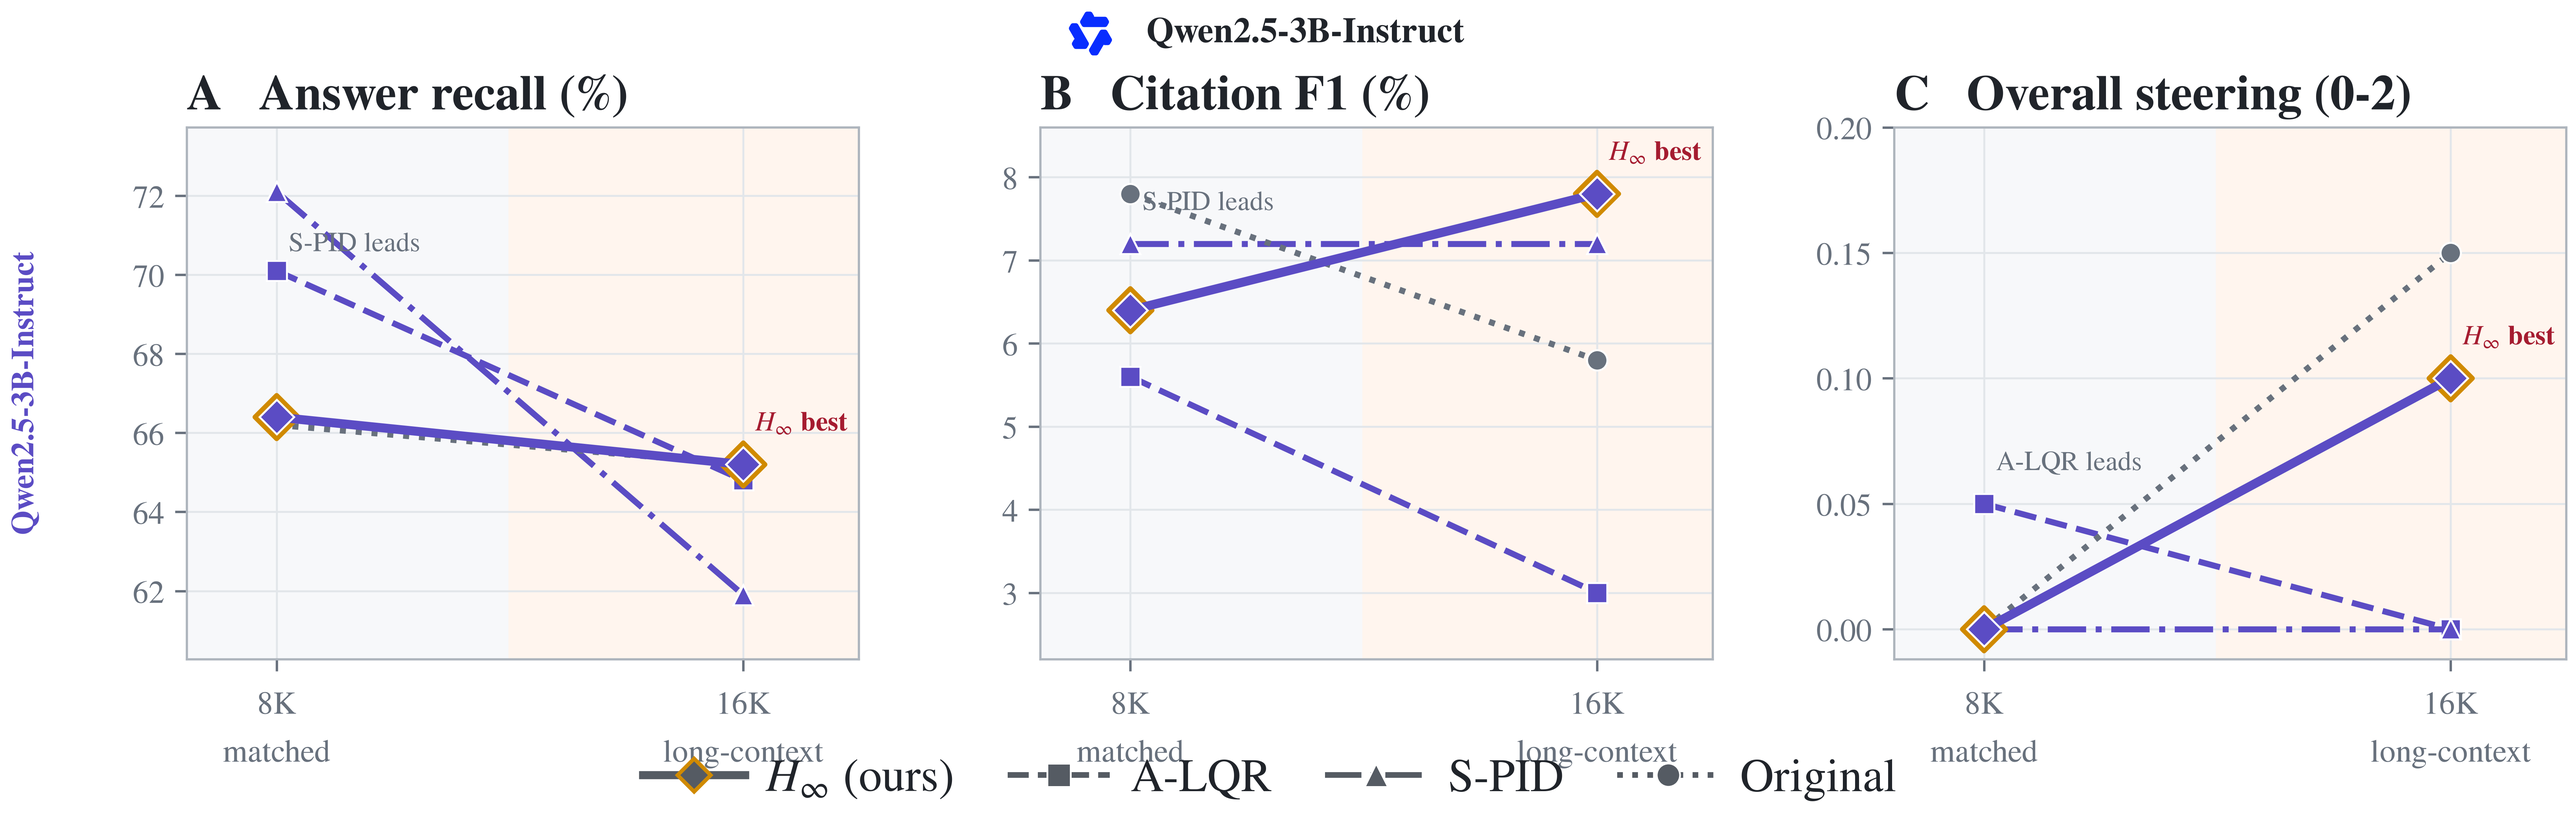
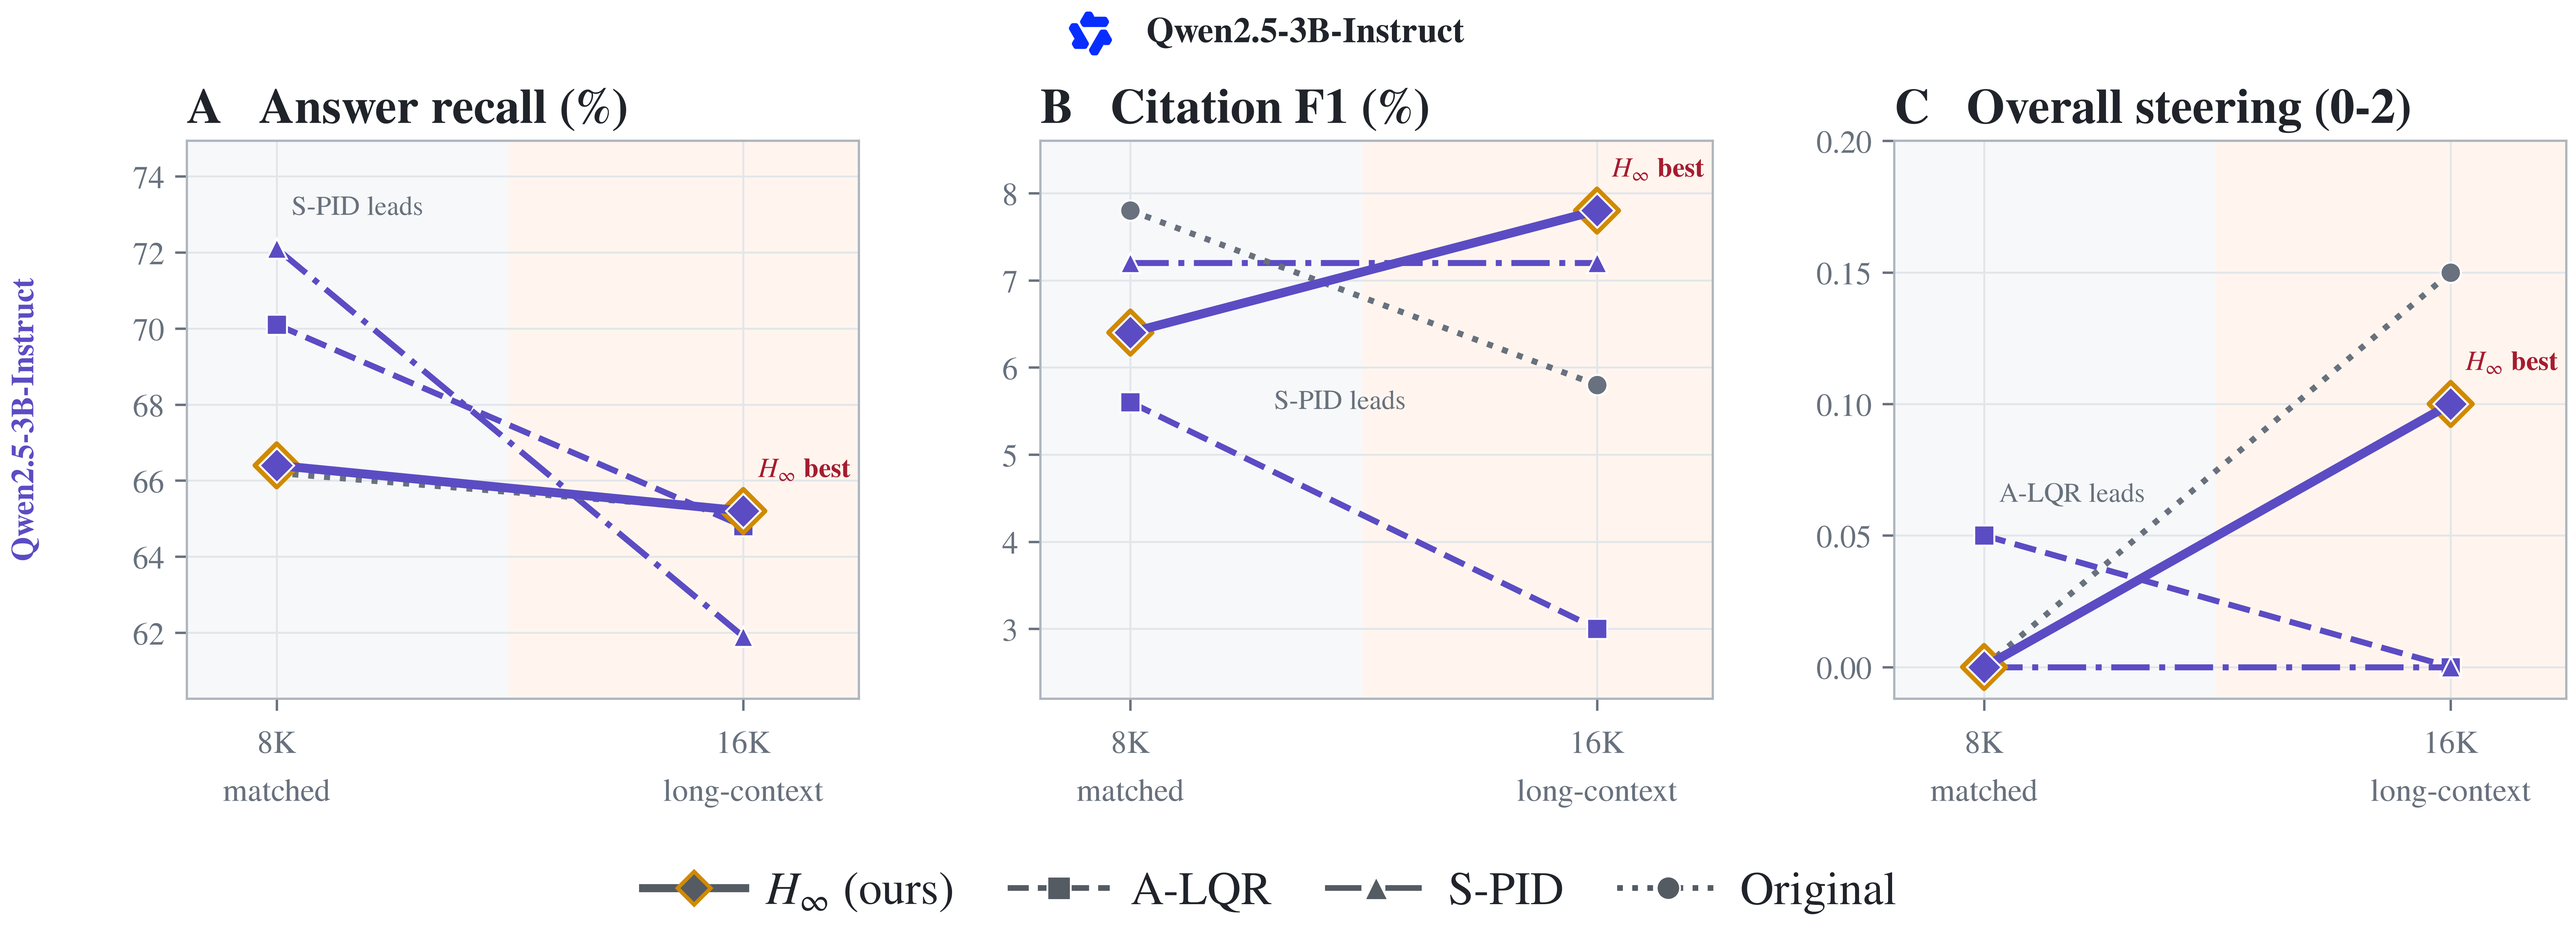
Fix spacing in compact L-CiteEval figure

diff --git a/figs/benchmark_figures/scripts/plot_transfer_results.py b/figs/benchmark_figures/scripts/plot_transfer_results.py
@@ -487,6 +487,7 @@ def create_lcite_figure(
     rows: list[dict[str, object]],
     context_subset: tuple[int, ...] | None = None,
 ) -> plt.Figure:
+    compact_context_layout = context_subset is not None
     if context_subset is not None:
         allowed_contexts = set(context_subset)
         rows = [
@@ -510,7 +511,10 @@ def create_lcite_figure(
     fig, axes = plt.subplots(
         nrows,
         3,
-        figsize=(12.4, 4.15 + 2.95 * (nrows - 1)),
+        figsize=(
+            12.4,
+            (4.75 if compact_context_layout else 4.15) + 2.95 * (nrows - 1),
+        ),
         squeeze=False,
         sharex=True,
     )
@@ -532,6 +536,8 @@ def create_lcite_figure(
             style_axis(ax)
             metric_values = [float(row[metric]) for row in model_rows]
             y_limits = context_metric_limits(metric, metric_values)
+            if compact_context_layout and metric == "answer_recall":
+                y_limits = (y_limits[0], y_limits[1] + 1.2)
             ax.set_ylim(*y_limits)
             ax.set_xscale("log", base=2)
             ax.set_xlim(
@@ -635,17 +641,24 @@ def create_lcite_figure(
                     else f"{METHOD_LABEL[winner_method]} {descriptor}"
                 )
                 is_short_context = context == min(available_contexts)
-                place_below = is_short_context and metric == "answer_recall"
+                if compact_context_layout:
+                    if is_short_context and metric == "citation_f1":
+                        annotation_offset = (48, -42)
+                        annotation_va = "top"
+                    else:
+                        annotation_offset = (5, 9)
+                        annotation_va = "bottom"
+                else:
+                    place_below = is_short_context and metric == "answer_recall"
+                    annotation_offset = (4, -13 if place_below else 9)
+                    annotation_va = "top" if place_below else "bottom"
                 ax.annotate(
                     label,
                     (context, winner_value),
-                    xytext=(
-                        4,
-                        -13 if place_below else 9,
-                    ),
+                    xytext=annotation_offset,
                     textcoords="offset points",
                     ha="left",
-                    va="top" if place_below else "bottom",
+                    va=annotation_va,
                     fontsize=9.1,
                     fontweight="bold" if winner_method == "H-infinity" else "normal",
                     color=(
@@ -674,7 +687,7 @@ def create_lcite_figure(
     fig.legend(
         handles=line_handles,
         loc="lower center",
-        bbox_to_anchor=(0.5, 0.018),
+        bbox_to_anchor=(0.5, 0.022 if compact_context_layout else 0.018),
         ncol=4,
         frameon=False,
         fontsize=15.5,
@@ -719,7 +732,7 @@ def create_lcite_figure(
         left=0.095,
         right=0.985,
         top=0.82,
-        bottom=0.225,
+        bottom=0.275 if compact_context_layout else 0.225,
         wspace=0.27,
         hspace=0.30,
     )
